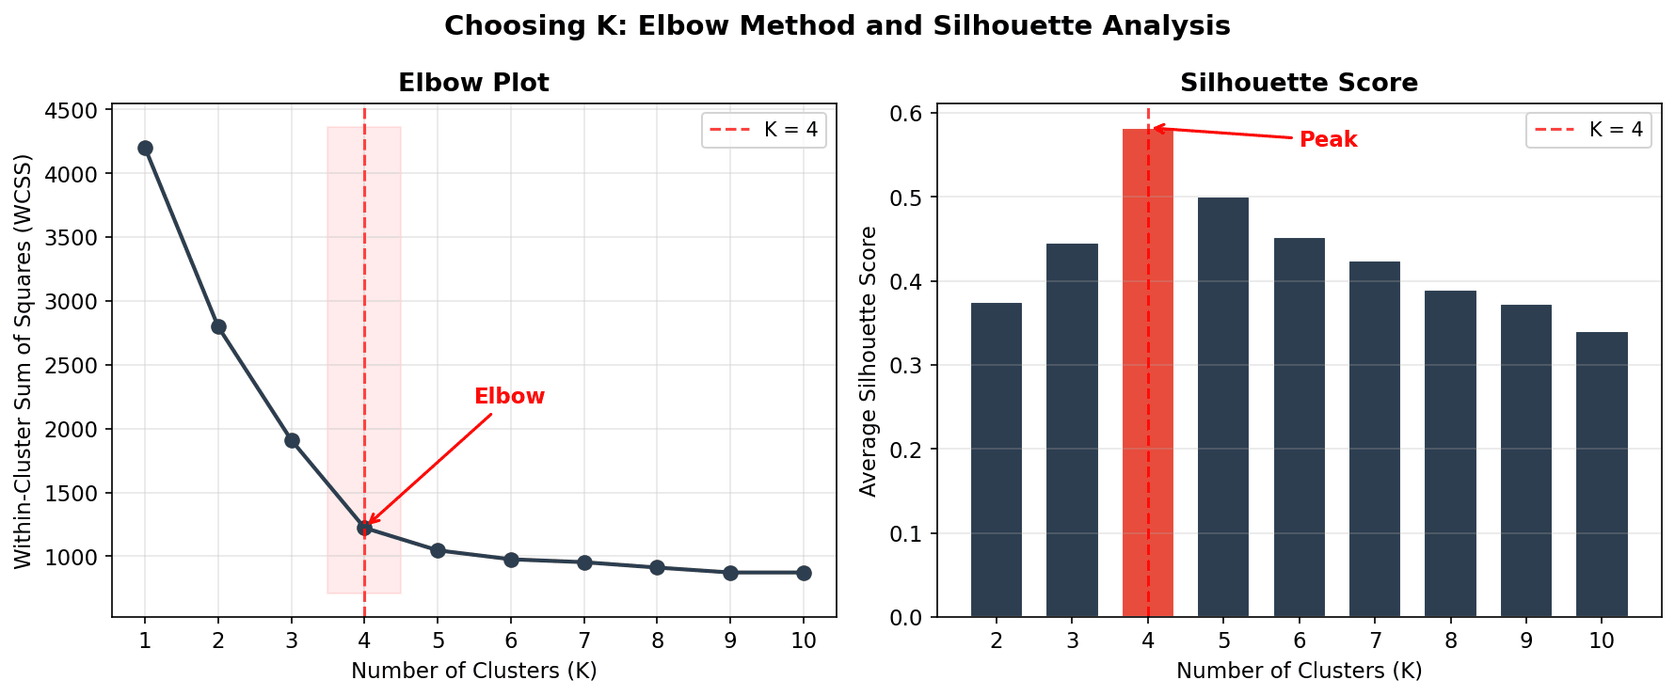
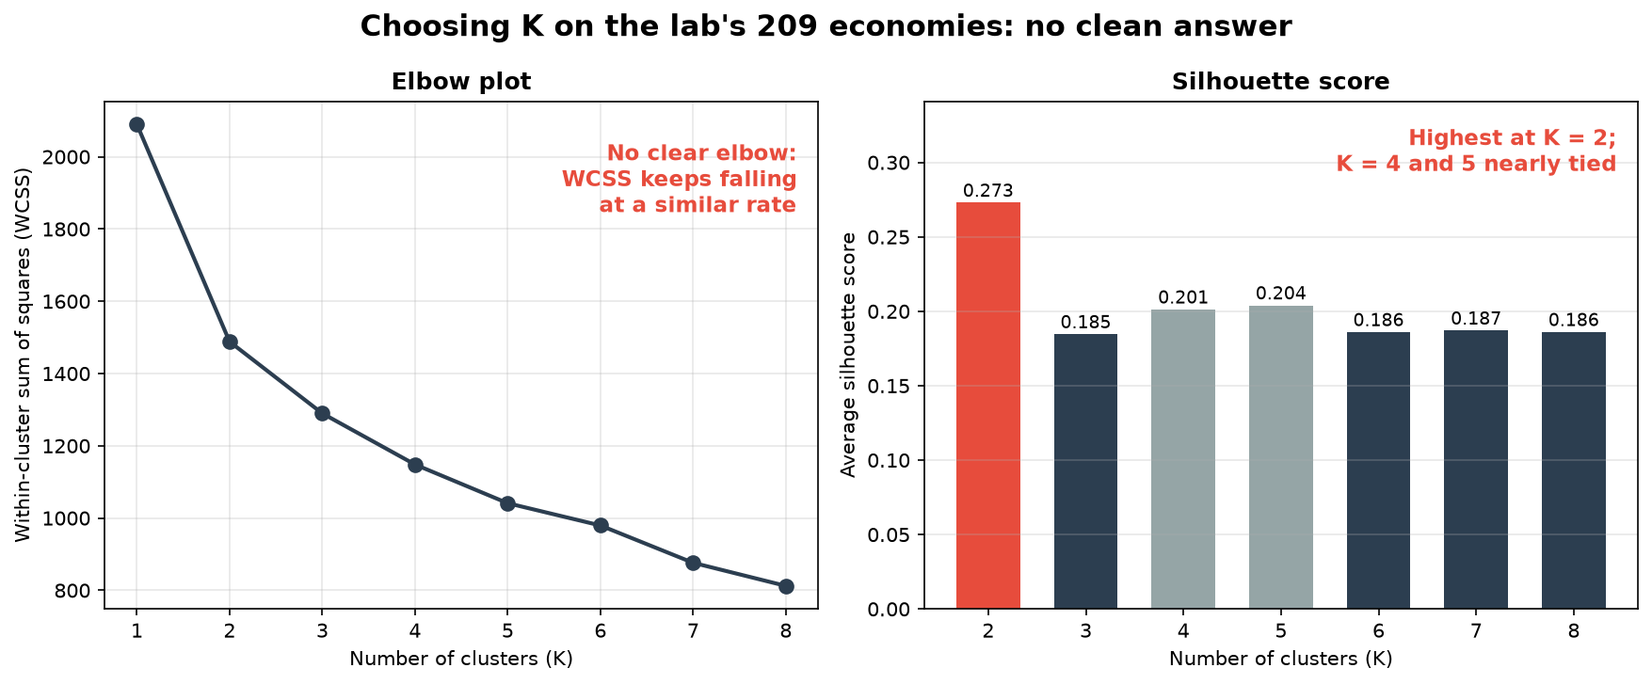
Ch 22 elbow charts from the labs' real data; 5200 Ch 21-23 objectives match the labs; Lab 25 install reminders
- Ch 22 (both courses): the simulated elbow/silhouette chart showed a
  clean K = 4. Redrawn from each lab's own 209 economies with each lab's
  KMeans call, checked against the printed tables: no clear elbow,
  silhouette highest at K = 2 (5200: K = 4 and 5 nearly tied; 3916:
  next best K = 4). Captions and notes follow.
- 5200 objectives: Ch 21 fits ARIMA/SARIMA and explains Prophet; Ch 22
  applies K-Means and reads a PCA map; Ch 23 checks LM-style scores
  against known episodes (no rate-decision correlation is done anywhere).
- Lab 25 needs installs ahead: reminder on 5200 Ch 24's closing slide
  and 3916 Ch 23's (T24 and T25 share the next meeting).
- 3916 Ch 10: Lab 10 write-it-yourself is now 20 min (trimmed 10 Oct).

diff --git a/econ5200/ch22-unsupervised-learning-clustering-economies/index.html b/econ5200/ch22-unsupervised-learning-clustering-economies/index.html
@@ -60,7 +60,7 @@
           </div>
           <div class="fragment fade-up" style="display: grid; grid-template-columns: 60px 1fr; align-items: center; background: #f8f6f3; border-radius: 8px; padding: 14px 20px; border-left: 4px solid var(--accent-color);">
             <p style="font-size: 22pt; font-weight: 700; color: var(--accent-color);">22.2</p>
-            <p style="font-size: 16pt;"><strong>Apply</strong> K-Means clustering and PCA in Python with proper standardization and silhouette evaluation</p>
+            <p style="font-size: 16pt;"><strong>Apply</strong> K-Means in Python with proper standardization and silhouette evaluation, and read a PCA map of the clusters</p>
           </div>
           <div class="fragment fade-up" style="display: grid; grid-template-columns: 60px 1fr; align-items: center; background: #f8f6f3; border-radius: 8px; padding: 14px 20px; border-left: 4px solid var(--success-color);">
             <p style="font-size: 22pt; font-weight: 700; color: var(--success-color);">22.3</p>
@@ -263,7 +263,7 @@
       <!-- ============ SLIDE 11: CHOOSING K ============ -->
       <section id="choosing-k" style="padding: 40px 50px;">
         <h2><i class="fa-solid fa-sliders" style="color: var(--secondary-color);"></i> Choosing K: Elbow & Silhouette</h2>
-        <img src="figures/ch22-elbow-silhouette.png" alt="Elbow method WCSS plot and silhouette score plot side by side for simulated data" style="max-height: 280px; margin: 10px auto; display: block;">
+        <img src="figures/ch22-elbow-silhouette.png" alt="Elbow and silhouette plots on the lab&rsquo;s 209 economies: WCSS falls smoothly with no clear elbow; silhouette is highest at K = 2 (0.273), with K = 4 (0.201) and K = 5 (0.204) nearly tied" style="max-height: 280px; margin: 10px auto; display: block;">
         <div style="display: grid; grid-template-columns: 1fr 1fr; gap: 25px; margin-top: 15px;">
           <div>
             <p style="font-size: 15pt; font-weight: 600; color: var(--secondary-color);">Elbow Method</p>
@@ -273,13 +273,13 @@
           <div>
             <p style="font-size: 15pt; font-weight: 600; color: var(--accent-color);">Silhouette Score</p>
             <p style="font-size: 14pt;">\(s(i) = \frac{b(i) - a(i)}{\max(a(i), b(i))}\)</p>
-            <p style="font-size: 13pt; color: var(--success-color); margin-top: 6px;">✓ Maximum = best K (principled)</p>
+            <p style="font-size: 13pt; color: var(--success-color); margin-top: 6px;">✓ Principled, but read the near-ties</p>
           </div>
         </div>
         <div class="fragment fade-up" style="background: #f8f6f3; padding: 14px 20px; border-radius: 8px; margin-top: 12px; text-align: center;">
           <p style="font-size: 15pt;">Choosing K = <strong>bias-variance tradeoff</strong>: K=1 (max bias) ↔ K=n (max variance)</p>
         </div>
-        <aside class="notes" data-sv="1"><div class="sv-lead" style="margin:0 0 .5em;padding:.06em 0 .10em .55em;border-left:5px solid #1565C0;font-size:1.28em;line-height:1.34;font-weight:600;color:#111"><p>Show both plots side-by-side. They often disagree &mdash; that's the teaching moment.</p></div><div class="sv-rest" style="margin:0;font-size:.9em;line-height:1.45;color:#5d5d5d"><div>"There is no single correct K. In economics, domain knowledge matters as much as any metric." These plots are simulated and agree at K=4. On the lab&rsquo;s 209 economies they do not: the silhouette peaks at K=2 (0.2729), K=5 (0.2040) edges out K=4 (0.2012), and the WCSS has no sharp bend.</div></div></aside>
+        <aside class="notes" data-sv="1"><div class="sv-lead" style="margin:0 0 .5em;padding:.06em 0 .10em .55em;border-left:5px solid #1565C0;font-size:1.28em;line-height:1.34;font-weight:600;color:#111"><p>Show both plots side-by-side. They often disagree &mdash; that's the teaching moment.</p></div><div class="sv-rest" style="margin:0;font-size:.9em;line-height:1.45;color:#5d5d5d"><div>"There is no single correct K. In economics, domain knowledge matters as much as any metric." These are the lab&rsquo;s own 209 economies (Lab 22&rsquo;s corrected matrix, 10 starts): the WCSS has no sharp bend, the silhouette peaks at K=2 (0.2729), and K=5 (0.2040) edges out K=4 (0.2012). That is the lesson: the metrics narrow the choice, and the economics (what K the reader can use) makes it.</div></div></aside>
       </section>
 
       <!-- ============ SLIDE 12: POLL 2 — WHICH K? ============ -->

diff --git a/econ5200/ch22-unsupervised-learning-clustering-economies/presentation.html b/econ5200/ch22-unsupervised-learning-clustering-economies/presentation.html
@@ -60,7 +60,7 @@
           </div>
           <div class="fragment fade-up" style="display: grid; grid-template-columns: 60px 1fr; align-items: center; background: #f8f6f3; border-radius: 8px; padding: 14px 20px; border-left: 4px solid var(--accent-color);">
             <p style="font-size: 22pt; font-weight: 700; color: var(--accent-color);">22.2</p>
-            <p style="font-size: 16pt;"><strong>Apply</strong> K-Means clustering and PCA in Python with proper standardization and silhouette evaluation</p>
+            <p style="font-size: 16pt;"><strong>Apply</strong> K-Means in Python with proper standardization and silhouette evaluation, and read a PCA map of the clusters</p>
           </div>
           <div class="fragment fade-up" style="display: grid; grid-template-columns: 60px 1fr; align-items: center; background: #f8f6f3; border-radius: 8px; padding: 14px 20px; border-left: 4px solid var(--success-color);">
             <p style="font-size: 22pt; font-weight: 700; color: var(--success-color);">22.3</p>
@@ -263,7 +263,7 @@
       <!-- ============ SLIDE 11: CHOOSING K ============ -->
       <section id="choosing-k" style="padding: 40px 50px;">
         <h2><i class="fa-solid fa-sliders" style="color: var(--secondary-color);"></i> Choosing K: Elbow & Silhouette</h2>
-        <img src="figures/ch22-elbow-silhouette.png" alt="Elbow method WCSS plot and silhouette score plot side by side for simulated data" style="max-height: 280px; margin: 10px auto; display: block;">
+        <img src="figures/ch22-elbow-silhouette.png" alt="Elbow and silhouette plots on the lab&rsquo;s 209 economies: WCSS falls smoothly with no clear elbow; silhouette is highest at K = 2 (0.273), with K = 4 (0.201) and K = 5 (0.204) nearly tied" style="max-height: 280px; margin: 10px auto; display: block;">
         <div style="display: grid; grid-template-columns: 1fr 1fr; gap: 25px; margin-top: 15px;">
           <div>
             <p style="font-size: 15pt; font-weight: 600; color: var(--secondary-color);">Elbow Method</p>
@@ -273,13 +273,13 @@
           <div>
             <p style="font-size: 15pt; font-weight: 600; color: var(--accent-color);">Silhouette Score</p>
             <p style="font-size: 14pt;">\(s(i) = \frac{b(i) - a(i)}{\max(a(i), b(i))}\)</p>
-            <p style="font-size: 13pt; color: var(--success-color); margin-top: 6px;">✓ Maximum = best K (principled)</p>
+            <p style="font-size: 13pt; color: var(--success-color); margin-top: 6px;">✓ Principled, but read the near-ties</p>
           </div>
         </div>
         <div class="fragment fade-up" style="background: #f8f6f3; padding: 14px 20px; border-radius: 8px; margin-top: 12px; text-align: center;">
           <p style="font-size: 15pt;">Choosing K = <strong>bias-variance tradeoff</strong>: K=1 (max bias) ↔ K=n (max variance)</p>
         </div>
-        <aside class="notes" data-sv="1"><div class="sv-lead" style="margin:0 0 .5em;padding:.06em 0 .10em .55em;border-left:5px solid #1565C0;font-size:1.28em;line-height:1.34;font-weight:600;color:#111"><p>Show both plots side-by-side. They often disagree &mdash; that's the teaching moment.</p></div><div class="sv-rest" style="margin:0;font-size:.9em;line-height:1.45;color:#5d5d5d"><div>"There is no single correct K. In economics, domain knowledge matters as much as any metric." These plots are simulated and agree at K=4. On the lab&rsquo;s 209 economies they do not: the silhouette peaks at K=2 (0.2729), K=5 (0.2040) edges out K=4 (0.2012), and the WCSS has no sharp bend.</div></div></aside>
+        <aside class="notes" data-sv="1"><div class="sv-lead" style="margin:0 0 .5em;padding:.06em 0 .10em .55em;border-left:5px solid #1565C0;font-size:1.28em;line-height:1.34;font-weight:600;color:#111"><p>Show both plots side-by-side. They often disagree &mdash; that's the teaching moment.</p></div><div class="sv-rest" style="margin:0;font-size:.9em;line-height:1.45;color:#5d5d5d"><div>"There is no single correct K. In economics, domain knowledge matters as much as any metric." These are the lab&rsquo;s own 209 economies (Lab 22&rsquo;s corrected matrix, 10 starts): the WCSS has no sharp bend, the silhouette peaks at K=2 (0.2729), and K=5 (0.2040) edges out K=4 (0.2012). That is the lesson: the metrics narrow the choice, and the economics (what K the reader can use) makes it.</div></div></aside>
       </section>
 
       <!-- ============ SLIDE 12: POLL 2 — WHICH K? ============ -->

diff --git a/econ3916/ch23-nlp-for-economists-text-as-data/index.html b/econ3916/ch23-nlp-for-economists-text-as-data/index.html
@@ -535,9 +535,9 @@ X_tfidf = vectorizer.fit_transform(documents)
       </div>
      </div>
      <div style="background: #f8f6f3; padding: 14px 20px; border-radius: 8px; margin-top: 16px;">
-      <p style="font-size: 14pt; color: var(--muted-color);"><strong>Next:</strong> Ch 24 uses text features as <em>controls</em> in causal estimation (DML). Ch 25 queries FOMC docs with natural language (RAG).</p>
+      <p style="font-size: 14pt; color: var(--muted-color);"><strong>Next:</strong> Ch 24 uses text features as <em>controls</em> in causal estimation (DML). Ch 25 queries FOMC docs with natural language (RAG). <strong>Before the next meeting:</strong> try Lab 25&rsquo;s Claude Code install and sign-in (its Part 1).</p>
      </div>
-     <aside class="notes" data-sv="1"><div class="sv-lead" style="margin:0 0 .5em;padding:.06em 0 .10em .55em;border-left:5px solid #1565C0;font-size:1.28em;line-height:1.34;font-weight:600;color:#111"><p>Read these four points slowly. Students should be writing them down.</p></div><div class="sv-rest" style="margin:0;font-size:.9em;line-height:1.45;color:#5d5d5d"><div>Forward seeds: today's tools become inputs to next week's methods.</div></div></aside>
+     <aside class="notes" data-sv="1"><div class="sv-lead" style="margin:0 0 .5em;padding:.06em 0 .10em .55em;border-left:5px solid #1565C0;font-size:1.28em;line-height:1.34;font-weight:600;color:#111"><p>Read these four points slowly. Students should be writing them down.</p></div><div class="sv-rest" style="margin:0;font-size:.9em;line-height:1.45;color:#5d5d5d"><div>Forward seeds: today's tools become inputs to next week's methods. Topics 24 and 25 share the next meeting, so mention the Lab 25 install now: a failed Claude Code install or sign-in found early costs nothing; found the night the lab is due, it costs the lab.</div></div></aside>
     </section>
     <section id="exit-ticket" style="padding: 32px 60px;">
       <h2><i class="fa-solid fa-ticket" style="color: var(--accent-color);"></i> End-of-Class Check</h2>

diff --git a/econ3916/ch23-nlp-for-economists-text-as-data/presentation.html b/econ3916/ch23-nlp-for-economists-text-as-data/presentation.html
@@ -535,9 +535,9 @@ X_tfidf = vectorizer.fit_transform(documents)
       </div>
      </div>
      <div style="background: #f8f6f3; padding: 14px 20px; border-radius: 8px; margin-top: 16px;">
-      <p style="font-size: 14pt; color: var(--muted-color);"><strong>Next:</strong> Ch 24 uses text features as <em>controls</em> in causal estimation (DML). Ch 25 queries FOMC docs with natural language (RAG).</p>
+      <p style="font-size: 14pt; color: var(--muted-color);"><strong>Next:</strong> Ch 24 uses text features as <em>controls</em> in causal estimation (DML). Ch 25 queries FOMC docs with natural language (RAG). <strong>Before the next meeting:</strong> try Lab 25&rsquo;s Claude Code install and sign-in (its Part 1).</p>
      </div>
-     <aside class="notes" data-sv="1"><div class="sv-lead" style="margin:0 0 .5em;padding:.06em 0 .10em .55em;border-left:5px solid #1565C0;font-size:1.28em;line-height:1.34;font-weight:600;color:#111"><p>Read these four points slowly. Students should be writing them down.</p></div><div class="sv-rest" style="margin:0;font-size:.9em;line-height:1.45;color:#5d5d5d"><div>Forward seeds: today's tools become inputs to next week's methods.</div></div></aside>
+     <aside class="notes" data-sv="1"><div class="sv-lead" style="margin:0 0 .5em;padding:.06em 0 .10em .55em;border-left:5px solid #1565C0;font-size:1.28em;line-height:1.34;font-weight:600;color:#111"><p>Read these four points slowly. Students should be writing them down.</p></div><div class="sv-rest" style="margin:0;font-size:.9em;line-height:1.45;color:#5d5d5d"><div>Forward seeds: today's tools become inputs to next week's methods. Topics 24 and 25 share the next meeting, so mention the Lab 25 install now: a failed Claude Code install or sign-in found early costs nothing; found the night the lab is due, it costs the lab.</div></div></aside>
     </section>
     <section id="exit-ticket" style="padding: 32px 60px;">
       <h2><i class="fa-solid fa-ticket" style="color: var(--accent-color);"></i> End-of-Class Check</h2>

diff --git a/econ3916/ch22-unsupervised-learning-clustering-economies/index.html b/econ3916/ch22-unsupervised-learning-clustering-economies/index.html
@@ -394,11 +394,11 @@ df['cluster'] = kmeans.fit_predict(X_scaled)</code></pre>
         </div>
        </div>
        <div>
-        <img alt="Elbow method — WCSS vs K showing inflection around K=4" class="figure" src="figures/ch22-elbow-silhouette.png" style="max-height: 340px;">
+        <img alt="Elbow and silhouette plots on the lab&rsquo;s 209 economies: WCSS falls smoothly with no clear elbow; silhouette is highest at K = 2 (0.273), next best K = 4 (0.206)" class="figure" src="figures/ch22-elbow-silhouette.png" style="max-height: 340px;">
        </div>
       </div>
      </div>
-     <aside class="notes" data-sv="1"><div class="sv-lead" style="margin:0 0 .5em;padding:.06em 0 .10em .55em;border-left:5px solid #1565C0;font-size:1.28em;line-height:1.34;font-weight:600;color:#111"><p>Show the elbow plot. Point to where the curve bends &mdash; is it K=3 or K=4?</p></div><div class="sv-rest" style="margin:0;font-size:.9em;line-height:1.45;color:#5d5d5d"><div>Often ambiguous. That's why we need a second method.</div></div></aside>
+     <aside class="notes" data-sv="1"><div class="sv-lead" style="margin:0 0 .5em;padding:.06em 0 .10em .55em;border-left:5px solid #1565C0;font-size:1.28em;line-height:1.34;font-weight:600;color:#111"><p>Show the elbow plot: these are the lab&rsquo;s own 209 economies. Ask the room where the curve bends &mdash; they will not agree, because it does not.</p></div><div class="sv-rest" style="margin:0;font-size:.9em;line-height:1.45;color:#5d5d5d"><div>Often ambiguous, as here. That's why we need a second method: the silhouette on the right peaks at K=2 (0.2729), with K=4 next (0.2065), the numbers Lab 22 Step 4 prints.</div></div></aside>
     </section>
 
     <!-- ========== SLIDE 18: SILHOUETTE SCORE ========== -->

diff --git a/econ3916/ch22-unsupervised-learning-clustering-economies/presentation.html b/econ3916/ch22-unsupervised-learning-clustering-economies/presentation.html
@@ -394,11 +394,11 @@ df['cluster'] = kmeans.fit_predict(X_scaled)</code></pre>
         </div>
        </div>
        <div>
-        <img alt="Elbow method — WCSS vs K showing inflection around K=4" class="figure" src="figures/ch22-elbow-silhouette.png" style="max-height: 340px;">
+        <img alt="Elbow and silhouette plots on the lab&rsquo;s 209 economies: WCSS falls smoothly with no clear elbow; silhouette is highest at K = 2 (0.273), next best K = 4 (0.206)" class="figure" src="figures/ch22-elbow-silhouette.png" style="max-height: 340px;">
        </div>
       </div>
      </div>
-     <aside class="notes" data-sv="1"><div class="sv-lead" style="margin:0 0 .5em;padding:.06em 0 .10em .55em;border-left:5px solid #1565C0;font-size:1.28em;line-height:1.34;font-weight:600;color:#111"><p>Show the elbow plot. Point to where the curve bends &mdash; is it K=3 or K=4?</p></div><div class="sv-rest" style="margin:0;font-size:.9em;line-height:1.45;color:#5d5d5d"><div>Often ambiguous. That's why we need a second method.</div></div></aside>
+     <aside class="notes" data-sv="1"><div class="sv-lead" style="margin:0 0 .5em;padding:.06em 0 .10em .55em;border-left:5px solid #1565C0;font-size:1.28em;line-height:1.34;font-weight:600;color:#111"><p>Show the elbow plot: these are the lab&rsquo;s own 209 economies. Ask the room where the curve bends &mdash; they will not agree, because it does not.</p></div><div class="sv-rest" style="margin:0;font-size:.9em;line-height:1.45;color:#5d5d5d"><div>Often ambiguous, as here. That's why we need a second method: the silhouette on the right peaks at K=2 (0.2729), with K=4 next (0.2065), the numbers Lab 22 Step 4 prints.</div></div></aside>
     </section>
 
     <!-- ========== SLIDE 18: SILHOUETTE SCORE ========== -->

diff --git a/econ3916/ch10-correlation-causality/index.html b/econ3916/ch10-correlation-causality/index.html
@@ -1051,7 +1051,7 @@ OLS(y, [d, c])  -> -0.593</code></pre>
       <h2><i class="fa-solid fa-flask" style="color: var(--secondary-color);"></i> Lab 10 &amp; What Comes Next</h2>
       <div class="content">
         <div style="background: #f0f5f8; border-radius: 10px; padding: 15px 22px; border-left: 4px solid var(--secondary-color);">
-          <p style="font-size: 15pt; line-height: 1.5;"><strong>Lab 10 &mdash; 80 min core + 30 min write-it-yourself + 15 min extension + take-home challenge.</strong> Build the three worlds, draw the three structures, run the good control and the bad control back to back, construct M-bias yourself, and reproduce the LaLonde contrast against its <strong>$1,794</strong> experimental benchmark.</p>
+          <p style="font-size: 15pt; line-height: 1.5;"><strong>Lab 10 &mdash; 80 min core + 20 min write-it-yourself + 15 min extension + take-home challenge.</strong> Build the three worlds, draw the three structures, run the good control and the bad control back to back, construct M-bias yourself, and reproduce the LaLonde contrast against its <strong>$1,794</strong> experimental benchmark.</p>
         </div>
         <div style="background: #eef5ee; border-radius: 10px; padding: 13px 20px; margin-top: 11px; border-left: 4px solid var(--success-color);">
           <p style="font-size: 13.5pt; line-height: 1.45;"><strong>Do Part 1 first, and take it seriously.</strong> Three upward-sloping clouds with correlations <strong>0.654</strong>, <strong>0.664</strong> and <strong>0.632</strong>, and true effects of <strong>2.0</strong>, <strong>0.0</strong>, <strong>0.0</strong>. Look at the panels and try to pick the real one <em>before</em> you read on. You will not be able to. That is the whole chapter.</p>

diff --git a/econ3916/ch10-correlation-causality/presentation.html b/econ3916/ch10-correlation-causality/presentation.html
@@ -1051,7 +1051,7 @@ OLS(y, [d, c])  -> -0.593</code></pre>
       <h2><i class="fa-solid fa-flask" style="color: var(--secondary-color);"></i> Lab 10 &amp; What Comes Next</h2>
       <div class="content">
         <div style="background: #f0f5f8; border-radius: 10px; padding: 15px 22px; border-left: 4px solid var(--secondary-color);">
-          <p style="font-size: 15pt; line-height: 1.5;"><strong>Lab 10 &mdash; 80 min core + 30 min write-it-yourself + 15 min extension + take-home challenge.</strong> Build the three worlds, draw the three structures, run the good control and the bad control back to back, construct M-bias yourself, and reproduce the LaLonde contrast against its <strong>$1,794</strong> experimental benchmark.</p>
+          <p style="font-size: 15pt; line-height: 1.5;"><strong>Lab 10 &mdash; 80 min core + 20 min write-it-yourself + 15 min extension + take-home challenge.</strong> Build the three worlds, draw the three structures, run the good control and the bad control back to back, construct M-bias yourself, and reproduce the LaLonde contrast against its <strong>$1,794</strong> experimental benchmark.</p>
         </div>
         <div style="background: #eef5ee; border-radius: 10px; padding: 13px 20px; margin-top: 11px; border-left: 4px solid var(--success-color);">
           <p style="font-size: 13.5pt; line-height: 1.45;"><strong>Do Part 1 first, and take it seriously.</strong> Three upward-sloping clouds with correlations <strong>0.654</strong>, <strong>0.664</strong> and <strong>0.632</strong>, and true effects of <strong>2.0</strong>, <strong>0.0</strong>, <strong>0.0</strong>. Look at the panels and try to pick the real one <em>before</em> you read on. You will not be able to. That is the whole chapter.</p>

diff --git a/econ5200/ch24-causal-machine-learning-double-ml/index.html b/econ5200/ch24-causal-machine-learning-double-ml/index.html
@@ -367,8 +367,8 @@
             </ul>
           </div>
         </div>
-        <p class="fragment" style="font-size:13pt; margin-top:15px;"><strong>Next:</strong> Ch 25 (AI Literacy) &bull; Ch 26 (Capstone — your final project)</p>
-        <aside class="notes" data-sv="1"><div class="sv-lead" style="margin:0 0 .5em;padding:.06em 0 .10em .55em;border-left:5px solid #1565C0;font-size:1.28em;line-height:1.34;font-weight:600;color:#111"><p>This chapter is the synthesis of both arcs.</p></div><div class="sv-rest" style="margin:0;font-size:.9em;line-height:1.45;color:#5d5d5d"><div>Every ML tool becomes an ingredient in the DML recipe.</div></div></aside>
+        <p class="fragment" style="font-size:13pt; margin-top:15px;"><strong>Next:</strong> Ch 25 (AI Literacy) &bull; Ch 26 (Capstone — your final project). <strong>This week:</strong> do Lab 25&rsquo;s &ldquo;Before this lab&rdquo; installs (about 20 min).</p>
+        <aside class="notes" data-sv="1"><div class="sv-lead" style="margin:0 0 .5em;padding:.06em 0 .10em .55em;border-left:5px solid #1565C0;font-size:1.28em;line-height:1.34;font-weight:600;color:#111"><p>This chapter is the synthesis of both arcs. Then say the Lab 25 line out loud: Part 1 needs its installs and accounts done a week early (about 20 minutes, longer the first time), or the lab stalls on setup.</p></div><div class="sv-rest" style="margin:0;font-size:.9em;line-height:1.45;color:#5d5d5d"><div>Every ML tool becomes an ingredient in the DML recipe.</div></div></aside>
       </section>
 
       <!-- TAKEAWAYS -->

diff --git a/econ5200/ch24-causal-machine-learning-double-ml/presentation.html b/econ5200/ch24-causal-machine-learning-double-ml/presentation.html
@@ -367,8 +367,8 @@
             </ul>
           </div>
         </div>
-        <p class="fragment" style="font-size:13pt; margin-top:15px;"><strong>Next:</strong> Ch 25 (AI Literacy) &bull; Ch 26 (Capstone — your final project)</p>
-        <aside class="notes" data-sv="1"><div class="sv-lead" style="margin:0 0 .5em;padding:.06em 0 .10em .55em;border-left:5px solid #1565C0;font-size:1.28em;line-height:1.34;font-weight:600;color:#111"><p>This chapter is the synthesis of both arcs.</p></div><div class="sv-rest" style="margin:0;font-size:.9em;line-height:1.45;color:#5d5d5d"><div>Every ML tool becomes an ingredient in the DML recipe.</div></div></aside>
+        <p class="fragment" style="font-size:13pt; margin-top:15px;"><strong>Next:</strong> Ch 25 (AI Literacy) &bull; Ch 26 (Capstone — your final project). <strong>This week:</strong> do Lab 25&rsquo;s &ldquo;Before this lab&rdquo; installs (about 20 min).</p>
+        <aside class="notes" data-sv="1"><div class="sv-lead" style="margin:0 0 .5em;padding:.06em 0 .10em .55em;border-left:5px solid #1565C0;font-size:1.28em;line-height:1.34;font-weight:600;color:#111"><p>This chapter is the synthesis of both arcs. Then say the Lab 25 line out loud: Part 1 needs its installs and accounts done a week early (about 20 minutes, longer the first time), or the lab stalls on setup.</p></div><div class="sv-rest" style="margin:0;font-size:.9em;line-height:1.45;color:#5d5d5d"><div>Every ML tool becomes an ingredient in the DML recipe.</div></div></aside>
       </section>
 
       <!-- TAKEAWAYS -->

diff --git a/econ5200/ch23-nlp-for-economists-text-as-data/index.html b/econ5200/ch23-nlp-for-economists-text-as-data/index.html
@@ -74,7 +74,7 @@
           </div>
           <div class="fragment fade-up" style="display: grid; grid-template-columns: 60px 1fr; align-items: center; background: #f0fdfa; border-radius: 8px; padding: 14px 20px; border-left: 4px solid var(--success-color);">
             <p style="font-size: 22pt; font-weight: 700; color: var(--success-color);">23.3</p>
-            <p style="font-size: 16pt;"><strong>Analyze</strong> FOMC meeting minutes using the Loughran-McDonald financial sentiment lexicon and evaluate the correlation with subsequent rate decisions</p>
+            <p style="font-size: 16pt;"><strong>Analyze</strong> FOMC meeting minutes with Loughran-McDonald-style word lists, and check that the scores pick out known episodes such as December 2008</p>
           </div>
           <div class="fragment fade-up" style="display: grid; grid-template-columns: 60px 1fr; align-items: center; background: #f0fdfa; border-radius: 8px; padding: 14px 20px; border-left: 4px solid var(--danger-color);">
             <p style="font-size: 22pt; font-weight: 700; color: var(--danger-color);">23.4</p>

diff --git a/econ5200/ch23-nlp-for-economists-text-as-data/presentation.html b/econ5200/ch23-nlp-for-economists-text-as-data/presentation.html
@@ -74,7 +74,7 @@
           </div>
           <div class="fragment fade-up" style="display: grid; grid-template-columns: 60px 1fr; align-items: center; background: #f0fdfa; border-radius: 8px; padding: 14px 20px; border-left: 4px solid var(--success-color);">
             <p style="font-size: 22pt; font-weight: 700; color: var(--success-color);">23.3</p>
-            <p style="font-size: 16pt;"><strong>Analyze</strong> FOMC meeting minutes using the Loughran-McDonald financial sentiment lexicon and evaluate the correlation with subsequent rate decisions</p>
+            <p style="font-size: 16pt;"><strong>Analyze</strong> FOMC meeting minutes with Loughran-McDonald-style word lists, and check that the scores pick out known episodes such as December 2008</p>
           </div>
           <div class="fragment fade-up" style="display: grid; grid-template-columns: 60px 1fr; align-items: center; background: #f0fdfa; border-radius: 8px; padding: 14px 20px; border-left: 4px solid var(--danger-color);">
             <p style="font-size: 22pt; font-weight: 700; color: var(--danger-color);">23.4</p>
